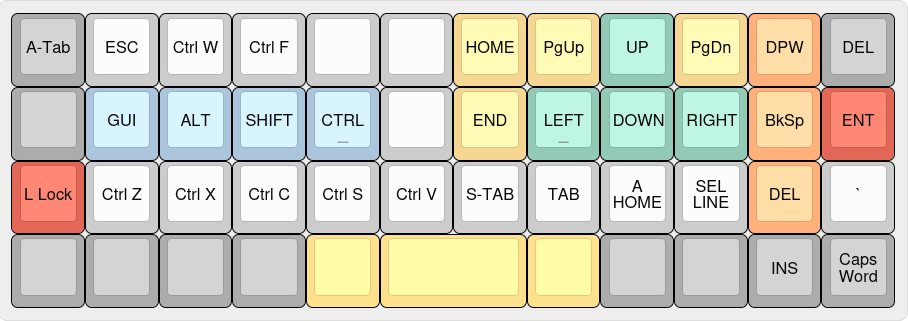
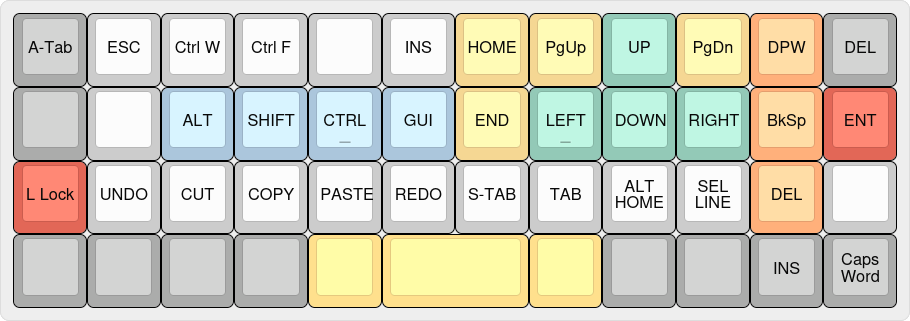
Corne doc

diff --git a/qmk_keyboards/CORNE42.md b/qmk_keyboards/CORNE42.md
@@ -1,60 +1,62 @@
 # QMK config
-## Ortholinear 47 keys
+## Corne 42 keys split keyboard
 
-This layout is very much a work in progress. It is derived from my Alice layout and adapted for the reduced number of keys.
-I do not like the 2u spacebar in the middle as I can't deal with having my thumbs in asymetrical positions. So I use the keys
-on either sides for SHIFT and SPACE. The spacebar becomes the `Symbols` key.
+This layout is an evolution of my [ortholinear](ORTHO47.md) layout and is still a work in progress.
 
-To get help, pressing `Shift-Help` shows the layout for the current layer on screen until the key is released. In the main layer `Alt-Shift-Help` displays the layout for the AltGr symbols.
+To get help, the combo `D` + `H` shows the layout for the current layer on screen until the key is released.
+For the AltGr symbols tap the Symbols key before the help combo.
 
 #### Main layer
 
-![main](../img/layout_ortho47_main.png)
+![main](../img/layout_corne42_main.png)
 
 Tap the symbols `SYMB` key once for a One-Shot of the `AltGr` symbols with a custom [XKB](../xkb/README.md) configuration.
 Holding the key accesses the Symbols layer described below. The normal Linux Compose key is available on the symbols layer.
 
 Tapping the Tmux key sends `Ctrl-A` and holding it sends `Ctrl-A` before each key press until released.
 
-A [leader key](LeaderKey.md) sequence is started with a double tap on the `Tmux` key.
+A [leader key](LeaderKey.md) sequence is started with the combo `H` + `,`.
+
+TODO: document the other combos: save, copy, paste,...
 
 #### Symbols layer
 
-![nav](../img/layout_ortho47_symbols.png)
+![nav](../img/layout_corne42_symbols.png)
 
 A long press on `(`, `[` or `{` open and close the parenthesis or bracket and move the cursor in the middle. A long press 
 on `!`, `&` or `=` outputs the symbol twice and surrounded by spaces.
 
 #### Numbers layer
 
-![nav](../img/layout_ortho47_numbers.png)
+![nav](../img/layout_corne42_numpad.png)
+
+Currently trying numpad on the left.
 
 #### Extend layer
 Accessible with the `EXT` keys. Press Layer lock key `LLOCK` to lock to this layer and again to exit it.
 
-![extend](../img/layout_ortho47_extend.png)
+![extend](../img/layout_corne42_extend.png)
 
 #### Nav layer
 Accessible with the `NAV` key. 
 
-![nav](../img/layout_ortho47_nav.png)
-
-`Space` alternates between the two previous windows.
+![nav](../img/layout_corne42_nav.png)
 
 Find next and previous work in several editors (F3 and Shift-F3). With Shift, switches to "Find in files" mode (F8 and Control-F8).   
 Tab switching is with Control-Alt-PgUp/Dn and works is several editors and can be configured in gnome-terminal and others.  
-Dynamic macros 1 and 2 are recorded in the System layer.  
+The Dynamic Macro is recorded in the System layer.  
+
 Application shortcuts work with the [run-or-raise](../run-or-raise/README.md) Gnome extension.  
 
 #### Media and browsing layer
-![media](../img/layout_ortho47_media.png)
-This layer is dedicated to browsing and other non-typing activities. It is accessed by holding the `TAB` key or activated by the
-combo `TAB` + `Q`.
+![media](../img/layout_corne42_media.png)
+This layer is dedicated to browsing and other non-typing activities. It is accessed by holding the `ESC` key or activated by the
+combo `ESC` + `Q`.
 
 #### System layer
-Accessible by activating both the Extend and Nav layers at the same time.
+Accessible by activating both the `Extend` and `Symbols` layers at the same time.
 
-![system](../img/layout_ortho47_system.png)
+![system](../img/layout_corne42_system.png)
 
 The default layer changes are persistent between reboots. The cursor layer at the bottom right is not persistent.
 
